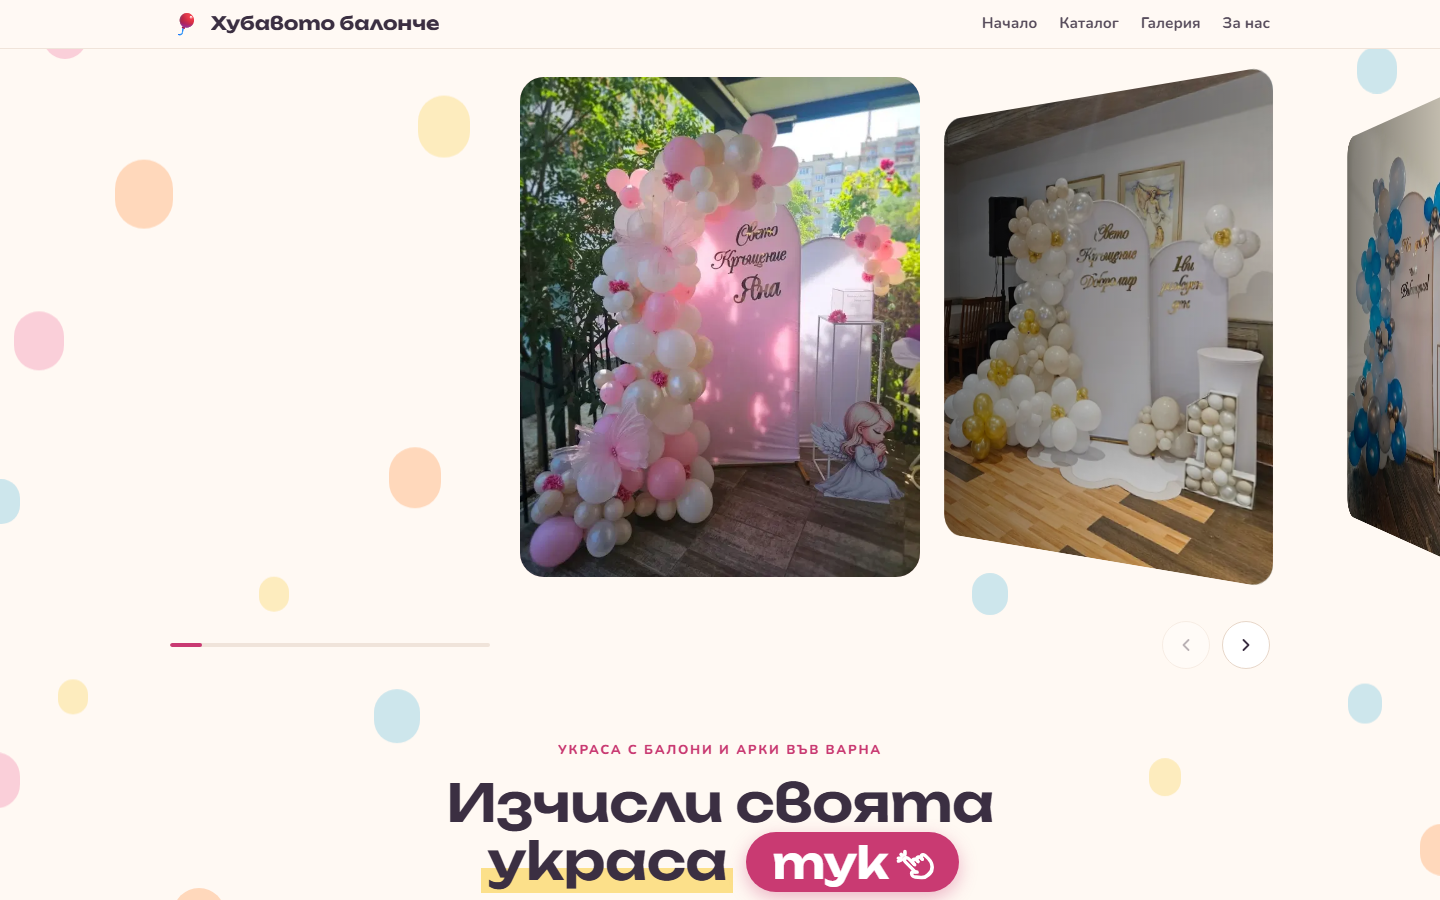
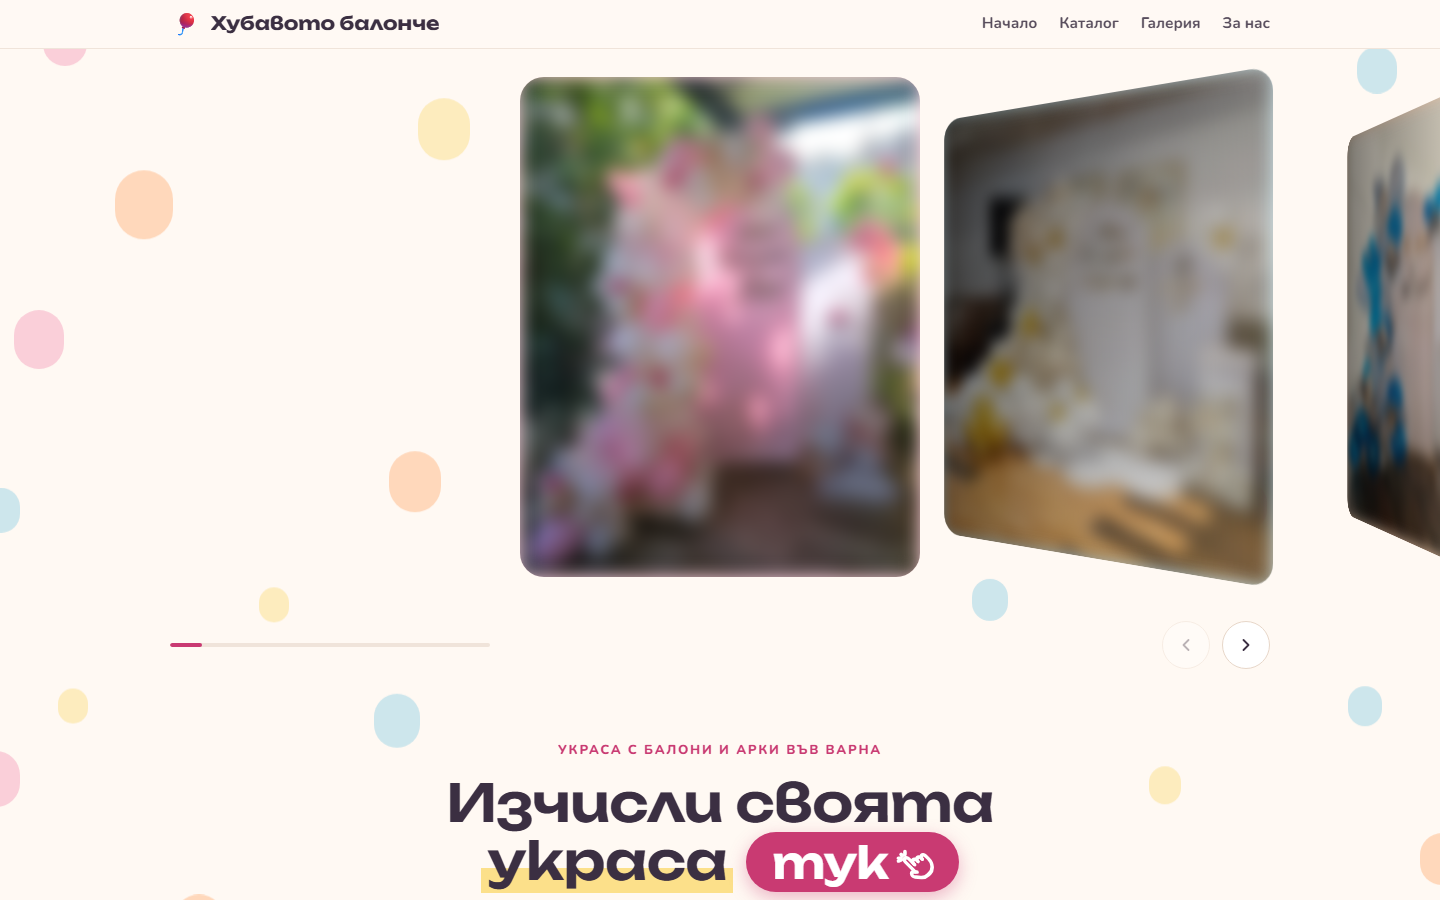
docs: fix review round 1

diff --git a/docs/PROGRESS.md b/docs/PROGRESS.md
@@ -184,7 +184,7 @@ homepage with no code change. See **"Adding product photos"** at the bottom of t
       sits in `src/components/catalog/Filters.tsx`; wire it when step 5 lands.
 - [ ] ~~`/product/[slug]` — PDP~~ — dropped for now (owner, 24 Sep 2026); catalog cards stay unlinked
 - [x] Colour swatches that swap the photo — on the catalog card (per `catalog-and-images.md`)
-- [ ] Image carousel when a product has more than one photo
+- [ ] ~~Image carousel when a product has more than one photo~~ — dropped with the PDP
 - [x] `/configurator` as its own page (moved there by homepage v2; hidden backup)
 
 ## Step 4 — Admin: login + requests inbox 🟡
@@ -234,7 +234,6 @@ Done, and deployed to Netlify at ukrasivarna.com.
       canonicals, Open Graph share picture, LocalBusiness JSON-LD, per-category and
       per-tag titles/H1s, crawlable category links, cached homepage
 - [x] SEO content: showcase pages (`/showcases/<slug>`), gallery tag texts, `/faq`
-- [ ] Responsive pass on a real phone
 - [x] Push to GitHub → import to Netlify → add the env vars → deploy
 - [x] Point the domain at Netlify (ukrasivarna.com, Netlify DNS)
 
@@ -349,6 +348,7 @@ spec (uncommitted), `/ship-pr` ships the fix. How it works: `.claude/README.md`.
 - [ ] Replace the contact placeholders in `src/lib/contacts.ts` (phone, email, socials)
 - [x] ~~Replace the placeholder prices in `seed.sql`~~ — dropped (19 Oct 2026): live prices are set in admin (see „Re-price every product in admin“ above), and `seed.sql` only seeds a brand-new database; it refuses to run on one that has products.
 - [ ] Upgrade Node 20.9 → 22 LTS (Supabase warns on every build)
+- [ ] Responsive pass on a real phone
 
 ## Out of scope for v1
 

diff --git a/README.md b/README.md
@@ -41,8 +41,8 @@ The dependency list is kept short on purpose: no state library, no CMS, no UI ki
 - **The basket is `useSyncExternalStore` over localStorage.** It isn't a library and it isn't a
   context. Old saved formats are upgraded when they are read.
 - **Privacy by design.** No cookies, no third-party scripts and self-hosted fonts mean the site
-  needs no consent banner. A nightly pg_cron job removes customers' names and phone numbers
-  12 months after their event ([migration-retention.sql](migration-retention.sql)).
+  needs no consent banner. [migration-retention.sql](migration-retention.sql) schedules a nightly
+  pg_cron job that removes names and phone numbers 12 months after the event.
 - **SEO.** Every category, gallery tag and showcase has its own page. The site also has a sitemap
   built from the database, JSON-LD (LocalBusiness, FAQPage), a share image drawn at build time and
   a homepage regenerated every 5 minutes (ISR).
@@ -54,7 +54,7 @@ and real code review:
 
 - A **developer** agent builds one chunk of the plan on its own branch and opens a PR.
 - **Security, performance, logic and SEO reviewer** agents each read the diff on their own. They
-  have read-only tools, so they can report but not fix.
+  have no edit or write tools. Their job is to report, and the developer agent fixes.
 - A **lead** session checks every "must fix" finding against the code before posting a single
   review. The developer then gets at most two fix rounds before a human decides.
 - Hard rules (no force-push, no pushing to `main` or release branches, no deleting remote refs)
